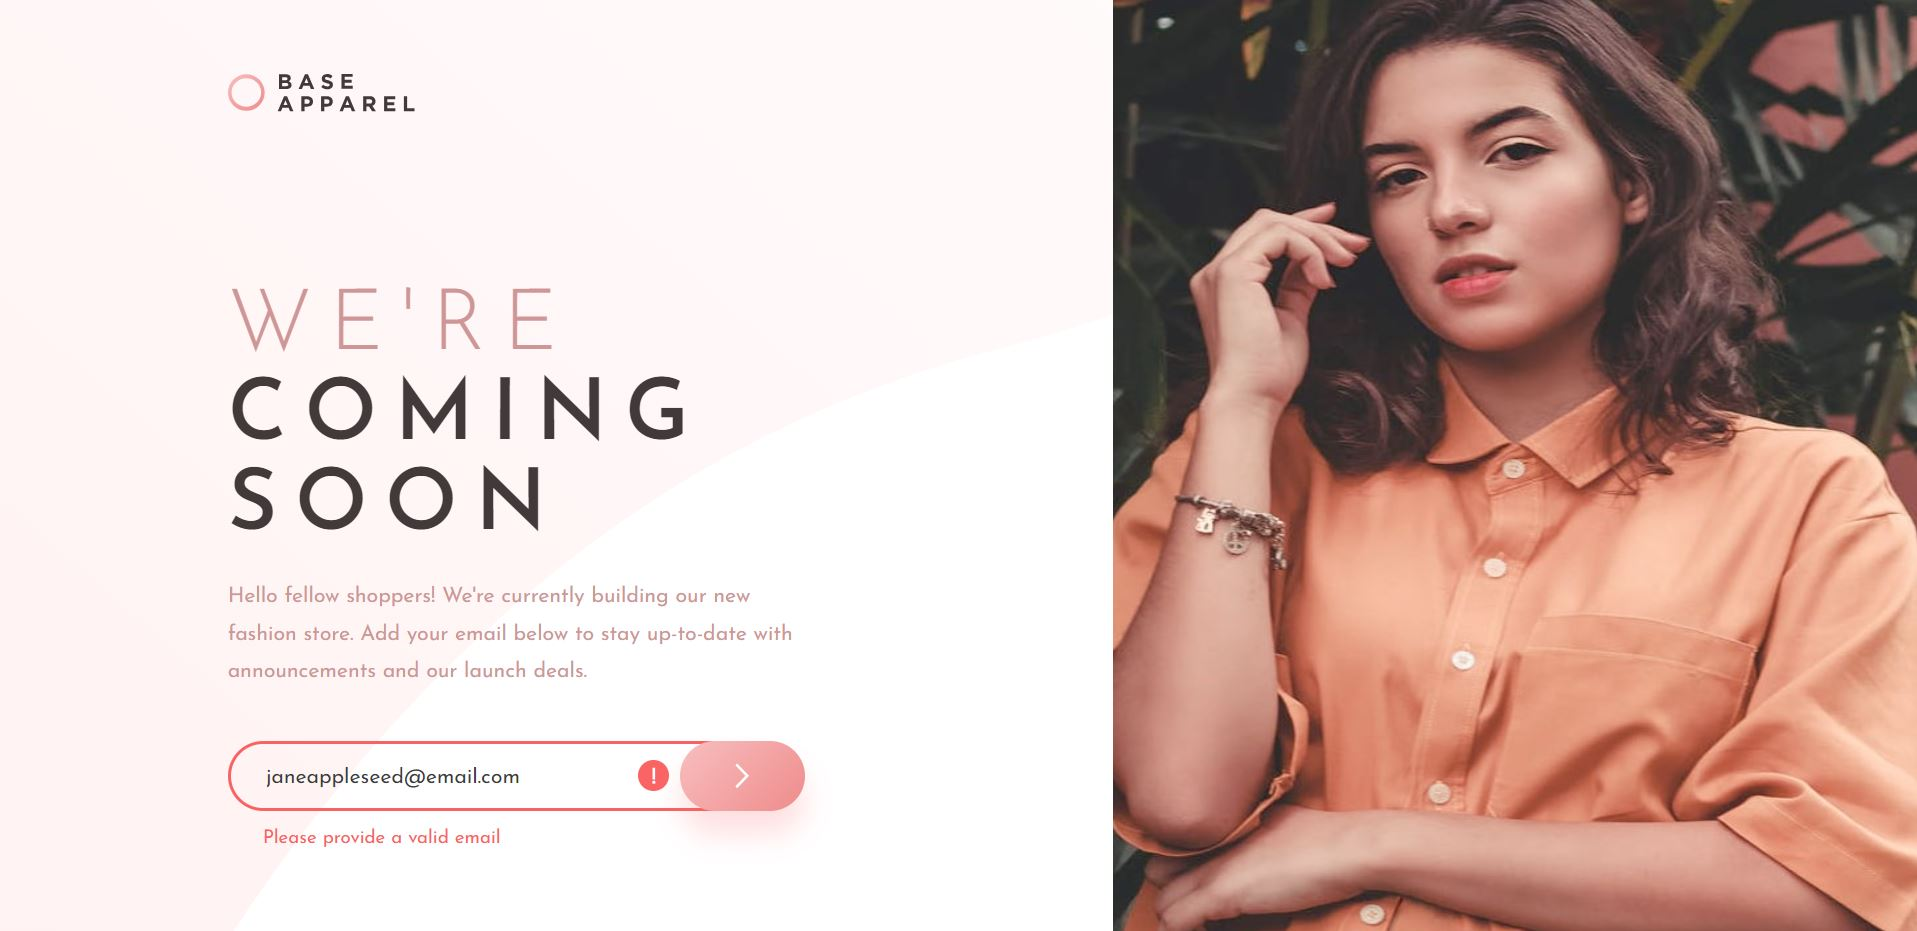
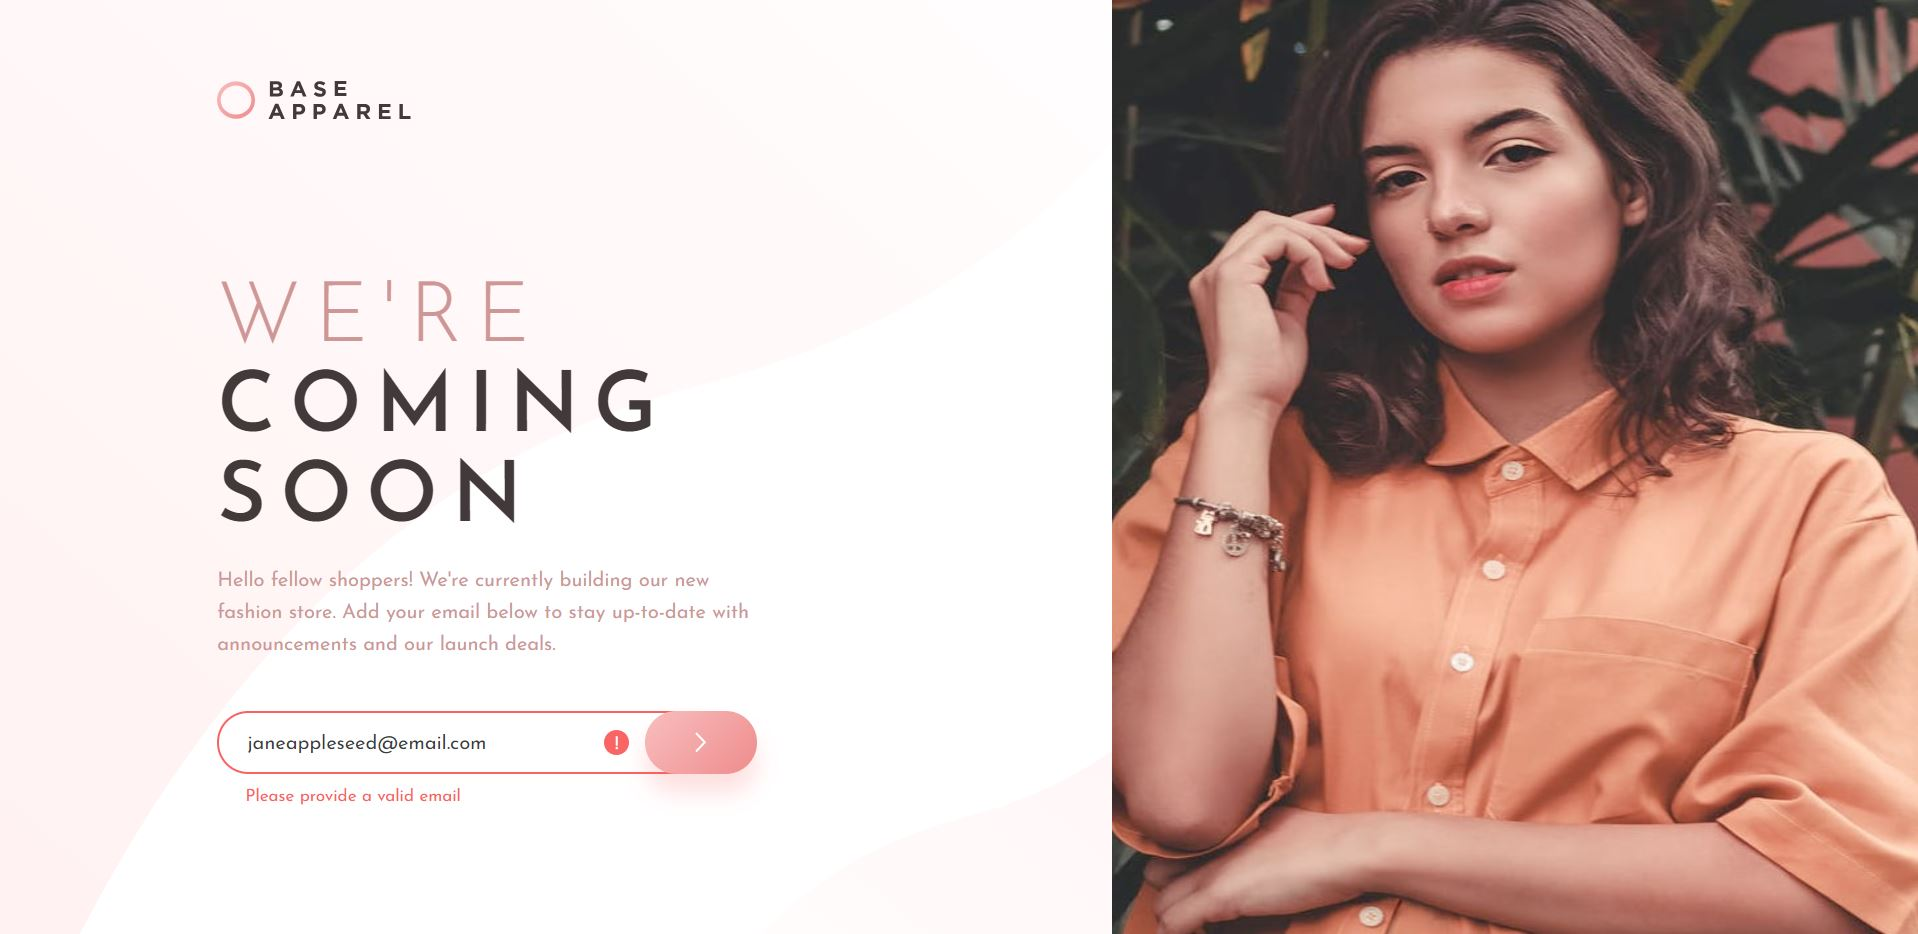
updated files

diff --git a/style.css b/style.css
@@ -19,28 +19,28 @@
     --line-height-text-mobile: 1.5rem;
     --error-message-mobile: 0.7rem;
 
-    --title-size-1100px: 3.4rem;
-    --line-height-title-1100px: 3.6rem;
-    --text-size-1100px: 0.85rem;
-    --error-message-1100px: 0.75rem;
+    --title-size-1100px: 4.2rem;
+    --line-height-title-1100px: 4.5rem;
+    --text-size-1100px: 1rem;
+    --line-height-text-1100px: 1.6rem;
+    --error-message-1100px: 0.85rem;
 
-    --title-size-1400px: 5.2rem;
-    --line-height-title-1400px: 5.4rem;
-    --text-size-1400px: 1.3rem;
-    --line-height-text-1400px: 1.9rem;
-    --error-message-1400px: 1rem;
+    --title-size-1500px: 5.8rem;
+    --line-height-title-1500px: 6.1rem;
+    --text-size-1500px: 1.4rem;
+    --line-height-text-1500px: 2rem;
+    --error-message-1500px: 1.1rem;
 
     --footer-size-mobile: 0.6rem;
 
     /* Border radius*/
     --border-radius: 25px;
-    --border-radius-1400px: 30px;
+    --border-radius-1500px: 35px;
 }
 
 * {
     box-sizing: border-box;
 }
-
 body {
     font-family: 'Josefin Sans', sans-serif;
     margin: 0;
@@ -179,7 +179,7 @@ input.invalid::placeholder {
 
 @media (min-width: 1100px) {
     main {
-        background: url(images/bg-pattern-desktop.svg) no-repeat left center/ cover;
+        background: url(images/bg-pattern-desktop.svg) no-repeat left center/ 70%;
         width: 100%;
         height: 100vh;
         overflow: hidden;
@@ -188,16 +188,16 @@ input.invalid::placeholder {
         "logo img"
         "content img";
         grid-template-columns: 2fr 42%;
-        grid-template-rows: 23% 2fr;
+        grid-template-rows: 22% 2fr;
     }
     
     .logo-div {
         grid-area: logo;
-        padding: 3rem 0 0;
+        padding: 4rem 0 0;
     }
 
     .logo {
-        width: 120px;
+        width: 155px;
     }
 
     .content {
@@ -209,7 +209,7 @@ input.invalid::placeholder {
 
     .logo-div, .content {
         margin: 0 auto;
-        width: 420px;
+        width: 540px;
     }
 
     .img-div {
@@ -235,21 +235,22 @@ input.invalid::placeholder {
 
     .text {
         font-size: var(--text-size-1100px);
-        padding: 0 3rem 0 0;
+        line-height: var(--line-height-text-1100px);
+        padding: 0 6rem 0 0;
     }
 
     form {
-        margin: 2rem 0;
+        margin: 2.5rem 0;
         padding: 0;
-        width: 88%;
+        width: 80%;
     }
 
     #email, button {
-        height: 45px;
+        height: 50px;
     }
 
     button {
-        width: 80px;
+        width: 90px;
     }
 
     #email {
@@ -273,15 +274,15 @@ input.invalid::placeholder {
     }
 }
 
-@media(min-width: 1475px) {
+@media(min-width: 1575px) {
 
     main {
-        grid-template-rows: 25% 2fr;
+        grid-template-rows: 28% 2fr;
     }
 
     .logo-div {
         grid-area: logo;
-        padding: 5rem 0 0;
+        padding: 7rem 0 0;
     }
 
     .logo {
@@ -289,46 +290,47 @@ input.invalid::placeholder {
     }
 
     .logo-div, .content {
-        width: 610px;
+        width: 660px;
     }
 
     .title {
-        font-size: var(--title-size-1400px);
-        line-height: var(--line-height-title-1400px);
+        font-size: var(--title-size-1500px);
+        line-height: var(--line-height-title-1500px);
         letter-spacing: 0.9rem;
     }
 
     .text {
-        font-size: var(--text-size-1400px);
-        line-height: var(--line-height-text-1400px);
+        font-size: var(--text-size-1500px);
+        line-height: var(--line-height-text-1500px);
+        padding: 0 4rem 0 0;
     }
 
     form {
-        width: 92%;
+        width: 90%;
     }
 
     #email {
-        font-size: var(--text-size-1400px);
+        font-size: var(--text-size-1500px);
     }
 
     #email.invalid {
-        background: url(images/icon-error.svg) no-repeat 82% 50% / 20px;
+        background: url(images/icon-error.svg) no-repeat 78% 50% / 25px;
     }
 
     #email, button {
-        height: 58px;
-        border-radius: var(--border-radius-1400px);
+        height: 65px;
+        border-radius: var(--border-radius-1500px);
     }
 
     button {
-        width: 100px;
+        width: 120px;
     }
 
     .arrow {
-        width: 12px;
+        width: 14px;
     }
 
     .message {
-        font-size: var(--error-message-1400px);
+        font-size: var(--error-message-1500px);
     }
 }
